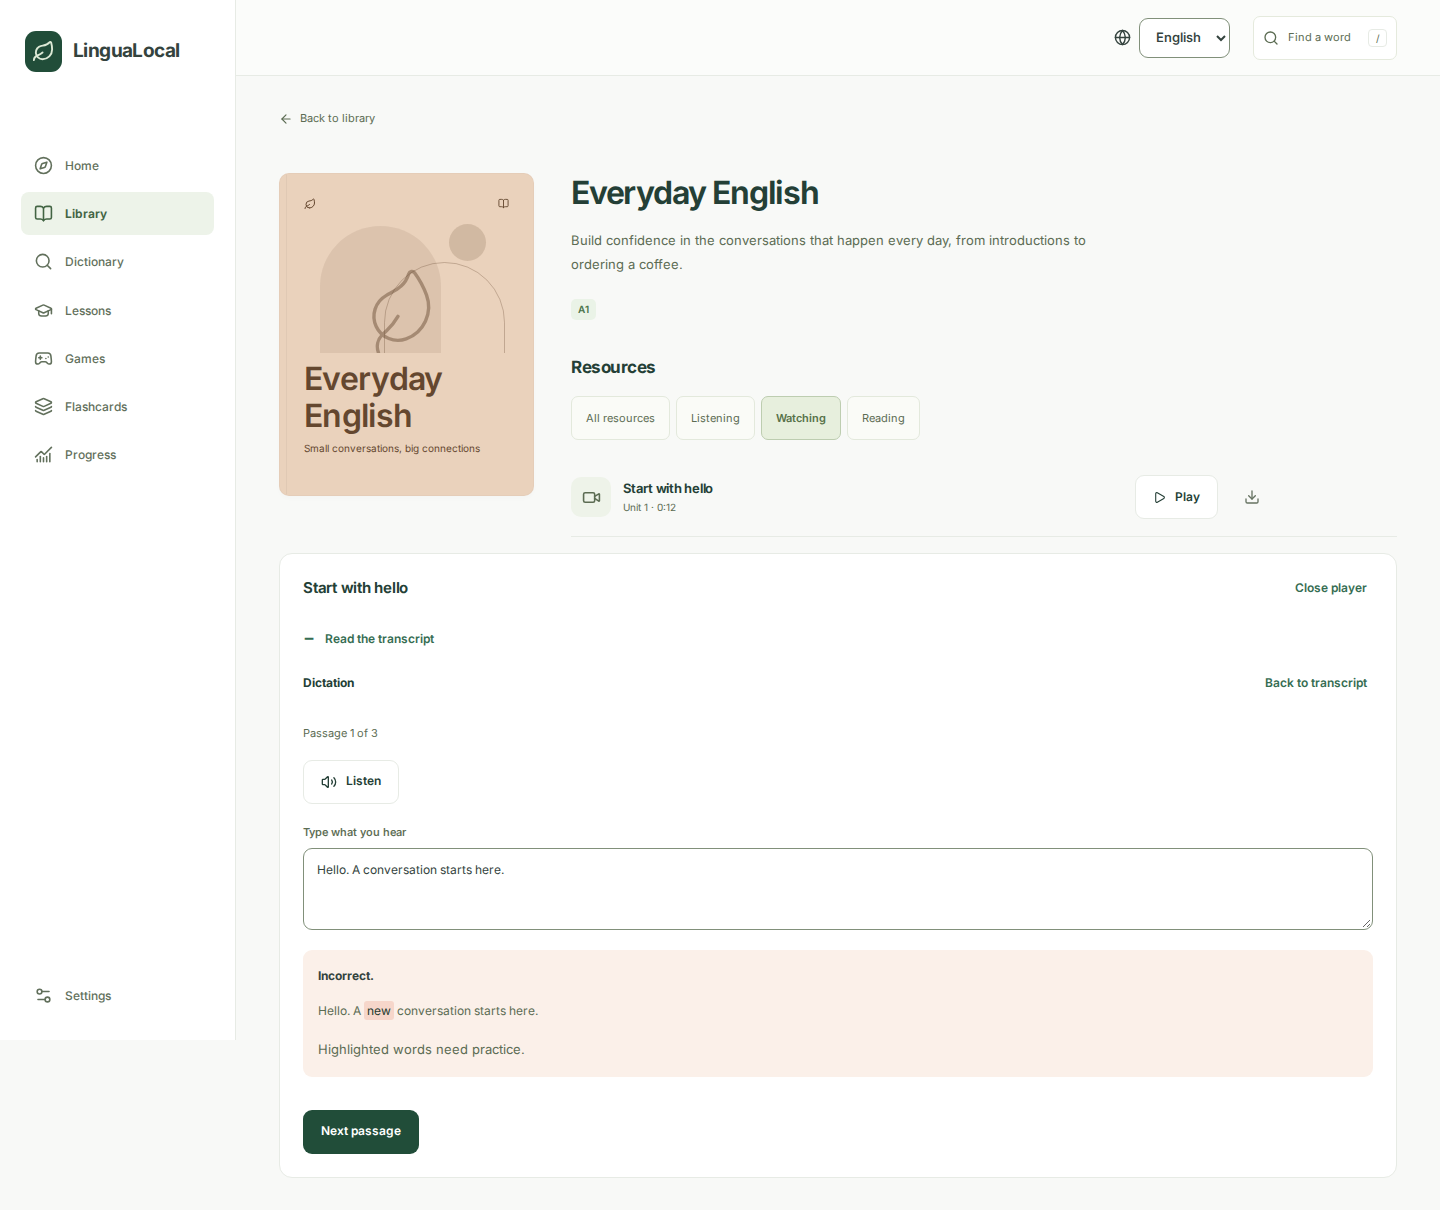
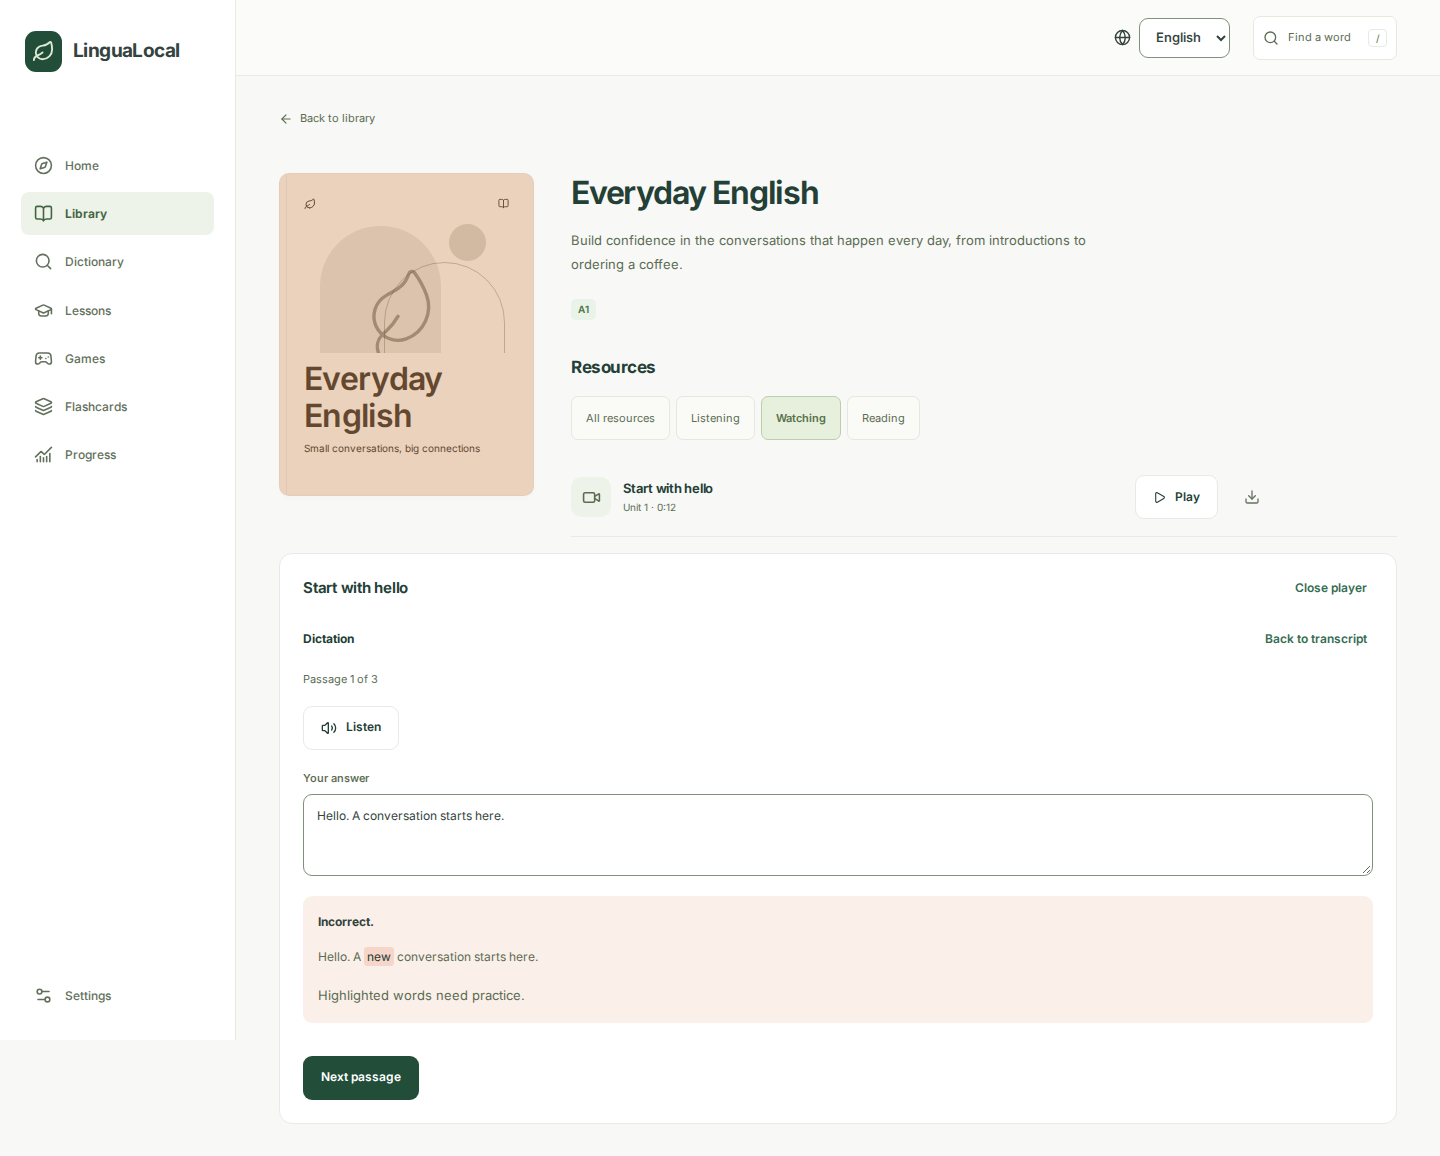
Remove repeated instructions from checked exercises

diff --git a/tests/e2e/dictation.spec.ts b/tests/e2e/dictation.spec.ts
@@ -42,6 +42,7 @@ test("dictation bounds playback, preserves keyboard focus and records one privat
 }) => {
   await openPractice(page);
   await expect(page.locator(".transcript-cues")).toHaveCount(0);
+  await expect(page.locator(".transcript > summary")).toBeHidden();
   await expect(page.locator("video")).toBeHidden();
   await expect(
     page.getByRole("button", { name: "Show captions", exact: true }),
@@ -72,6 +73,10 @@ test("dictation bounds playback, preserves keyboard focus and records one privat
   const input = page.getByLabel("Type what you hear");
   await input.fill("hello a new conversation starts here");
   await input.press("Enter");
+  await expect(page.getByLabel("Your answer")).toHaveValue(
+    "hello a new conversation starts here",
+  );
+  await expect(page.getByLabel("Your answer")).toHaveAttribute("readonly", "");
   await expect(page.locator(".dictation").getByRole("status")).toContainText(
     "Correct.",
   );
@@ -87,7 +92,7 @@ test("dictation bounds playback, preserves keyboard focus and records one privat
   await input.fill("I am well thank you for asking");
   await input.press("Enter");
   await page.keyboard.press("Enter");
-  await expect(page.locator(".dictation-result h4")).toBeFocused();
+  await expect(page.locator(".dictation h4")).toBeFocused();
   await expect(page.locator(".dictation-result")).toContainText(
     "16 of 17 words",
   );
@@ -109,17 +114,18 @@ test("dictation bounds playback, preserves keyboard focus and records one privat
   });
 });
 
-test("closing a transcript stops an unfinished passage without recording a result", async ({
+test("returning to the transcript stops an unfinished passage without recording a result", async ({
   page,
 }) => {
   await openPractice(page);
-  await page.getByText("Read the transcript", { exact: true }).click();
+  await page
+    .getByRole("button", { name: "Back to transcript", exact: true })
+    .click();
   await expect
     .poll(() =>
       page.locator("video").evaluate((video: HTMLVideoElement) => video.paused),
     )
     .toBe(true);
-  await page.getByText("Read the transcript", { exact: true }).click();
   await expect(page.locator(".transcript-cues li")).toHaveCount(3);
   const stored = await page.evaluate(() =>
     localStorage.getItem("lingualocal.progress.v1"),

diff --git a/src/components/dictation.tsx b/src/components/dictation.tsx
@@ -83,7 +83,12 @@ export function Dictation({
   return (
     <div className="dictation">
       <div className="section-heading">
-        <h4>{t("Dictation")}</h4>
+        <h4
+          ref={finished ? focus : undefined}
+          tabIndex={finished ? -1 : undefined}
+        >
+          {t(finished ? "Practice complete" : "Dictation")}
+        </h4>
         {!finished && (
           <button className="text-link" onClick={onClose}>
             {t("Back to transcript")}
@@ -92,9 +97,6 @@ export function Dictation({
       </div>
       {finished ? (
         <div className="dictation-result">
-          <h4 ref={focus} tabIndex={-1}>
-            {t("Practice complete")}
-          </h4>
           <p>{t("{score} of {total} words", { score, total })}</p>
           <button className="button primary" onClick={onClose}>
             {t("Back to transcript")}
@@ -141,7 +143,9 @@ export function Dictation({
             {t("Listen")}
           </button>
           <div className="form-field">
-            <label htmlFor="dictation-answer">{t("Type what you hear")}</label>
+            <label htmlFor="dictation-answer">
+              {t(checked ? "Your answer" : "Type what you hear")}
+            </label>
             <textarea
               id="dictation-answer"
               lang="en"

diff --git a/src/components/practice.tsx b/src/components/practice.tsx
@@ -256,15 +256,17 @@ export function Practice({ words }: { words: Word[] }) {
               }
             }}
           >
-            <p className="eyebrow">
-              {t(
-                mode === "gap"
-                  ? "Complete the sentence"
-                  : mode === "listening"
-                    ? "Listen and type the word"
-                    : "Type the word for this meaning",
-              )}
-            </p>
+            {!checked && (
+              <p className="eyebrow">
+                {t(
+                  mode === "gap"
+                    ? "Complete the sentence"
+                    : mode === "listening"
+                      ? "Listen and type the word"
+                      : "Type the word for this meaning",
+                )}
+              </p>
+            )}
             {mode === "listening" ? (
               <button
                 className="button secondary practice-listen"

diff --git a/src/app/globals.css b/src/app/globals.css
@@ -1407,6 +1407,7 @@ label {
 .dictation .section-heading {
   gap: 16px;
   flex-wrap: wrap;
+  margin-bottom: 8px;
 }
 .dictation .section-heading .text-link {
   border: 0;
@@ -1424,7 +1425,10 @@ label {
   font-size: 13px;
 }
 .dictation-result {
-  padding-block: 16px;
+  padding-block: 0;
+}
+.media-player .dictation-result p {
+  margin-block: 8px 16px;
 }
 .feedback-content p {
   margin-block-start: 4px;
@@ -3173,6 +3177,9 @@ button:disabled {
   min-height: 44px;
   display: flex;
   align-items: center;
+}
+.media-player summary[hidden] {
+  display: none;
 }
 .media-player summary::before {
   content: "+";

diff --git a/tests/e2e/print.spec.ts b/tests/e2e/print.spec.ts
@@ -32,5 +32,8 @@ test("checking a quiz answer keeps keyboard focus on the next action", async ({
   const check = page.getByRole("button", { name: "Check meaning" });
   await check.focus();
   await page.keyboard.press("Enter");
+  await expect(
+    page.getByText("Choose the meaning", { exact: true }),
+  ).toBeHidden();
   await expect(page.getByRole("button", { name: "Next word" })).toBeFocused();
 });

diff --git a/src/components/quiz.tsx b/src/components/quiz.tsx
@@ -134,7 +134,7 @@ export function Quiz({ words }: { words: Word[] }) {
             />
           </div>
           <section className="question-card">
-            <p className="eyebrow">{t("Choose the meaning")}</p>
+            {!checked && <p className="eyebrow">{t("Choose the meaning")}</p>}
             <h2
               className="quiz-word"
               lang="en"

diff --git a/src/components/timed-transcript.tsx b/src/components/timed-transcript.tsx
@@ -163,7 +163,7 @@ export function TimedTranscript({
         }
       }}
     >
-      <summary>{t("Read the transcript")}</summary>
+      <summary hidden={practising}>{t("Read the transcript")}</summary>
       {practising ? (
         <Dictation
           cues={passages}
